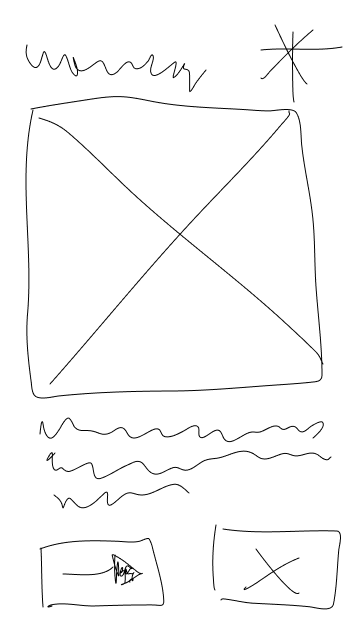
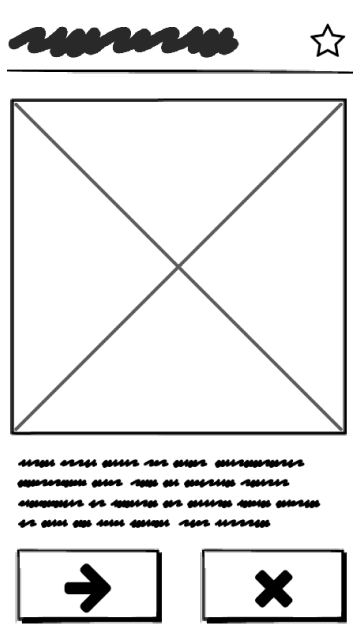
Added paper vs low prototype

diff --git a/fr/ux-ui-web/index.html b/fr/ux-ui-web/index.html
@@ -601,6 +601,13 @@
           <h3>Progréssion expérience <em>réelle</em></h3>
           <div class="d-flex space-between">
             <img
+              src="./images/wireframe-paper.png"
+              alt="Prototype dessin"
+              title="Prototype essentiel"
+              style="height: 350px"
+              class="border-dark-2 fragment"
+            />
+            <img
               src="./images/wireframe-low.png"
               alt="Prototype dessin"
               title="Prototype essentiel"
@@ -634,27 +641,9 @@
           >
         </section>
 
-        <!-- Fonctionnement de la maquette interactive -->
-        <section class="align-center">
-          <h3>Vers un <em>minimum viable product</em></h3>
-          <img
-            src="./images/interactive-prototype-screens.png"
-            alt="Différents écrans de la maquette interactive"
-            title="Passage entre écrans différents"
-            class="r-stretch"
-          />
-          <p>
-            <small>
-              L'interactivité est créée avec des <em>sauts</em> entre écrans
-              différents de l'application, sans ou avec peu de logique
-              computationnelle.</small
-            >
-          </p>
-        </section>
-
         <!-- Interactive -->
         <section class="align-center">
-          <h3>Maquette interactive à tester</h3>
+          <h3>Vers un <em>minimum viable product</em></h3>
           <iframe
             style="border: 1px solid rgba(0, 0, 0, 0.1)"
             width="100%"
